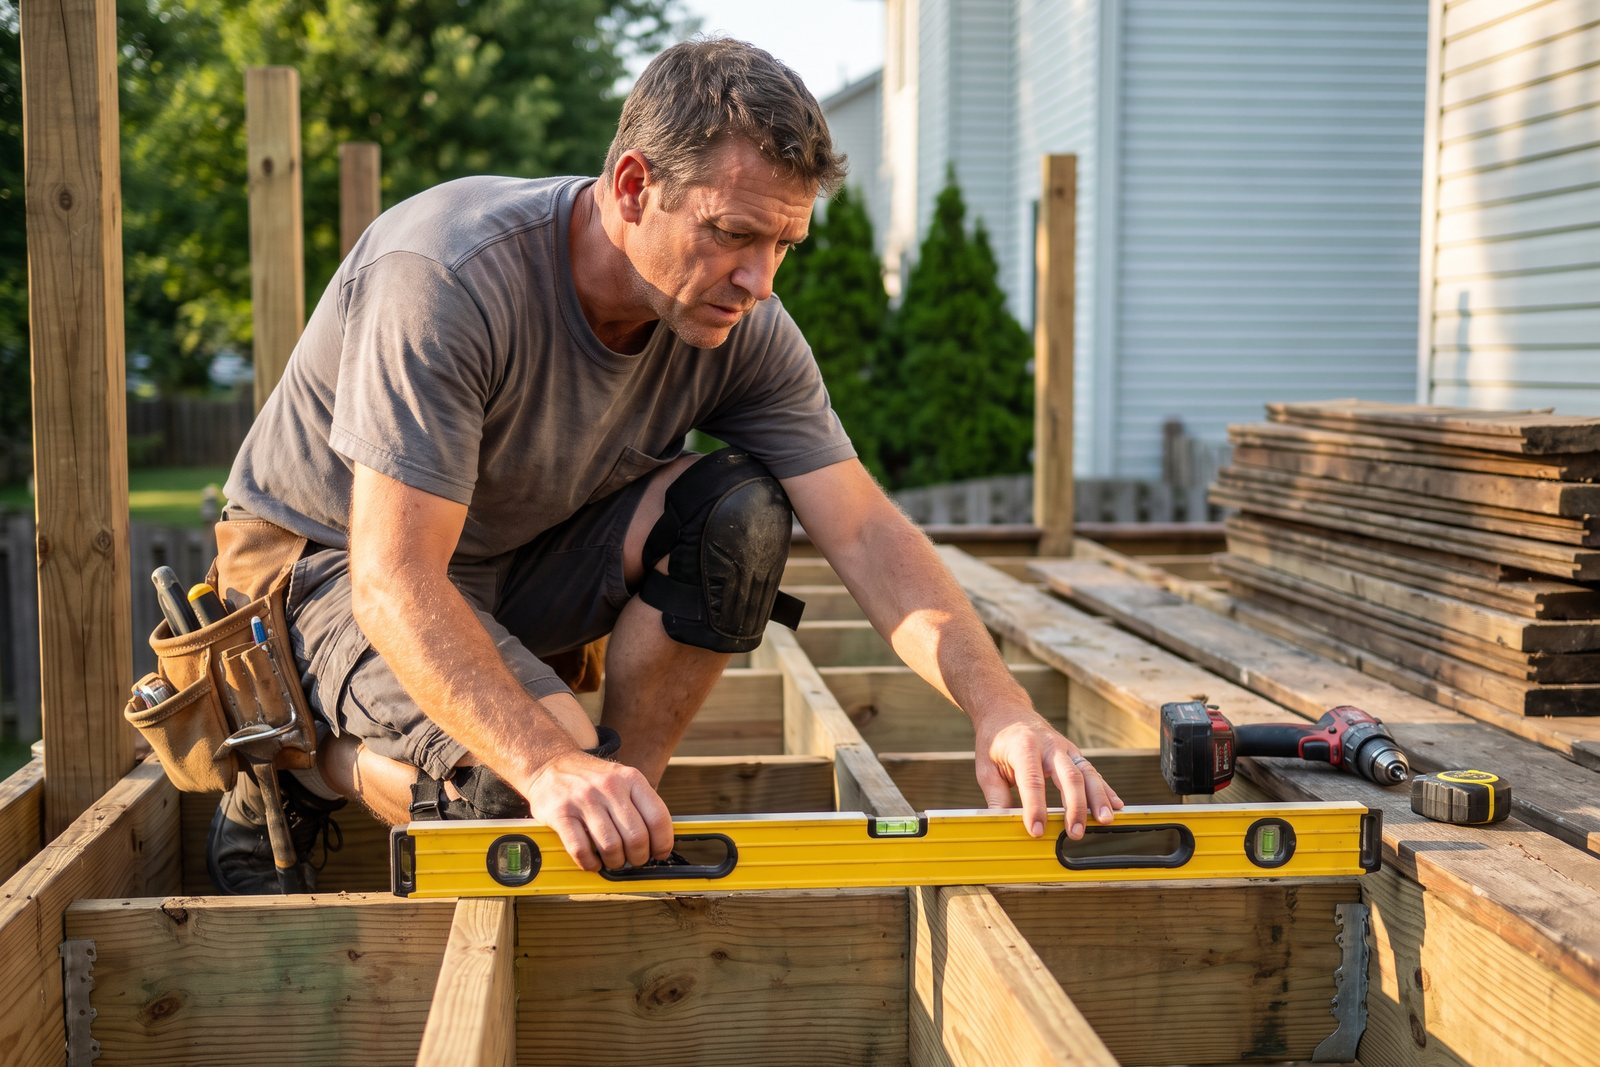
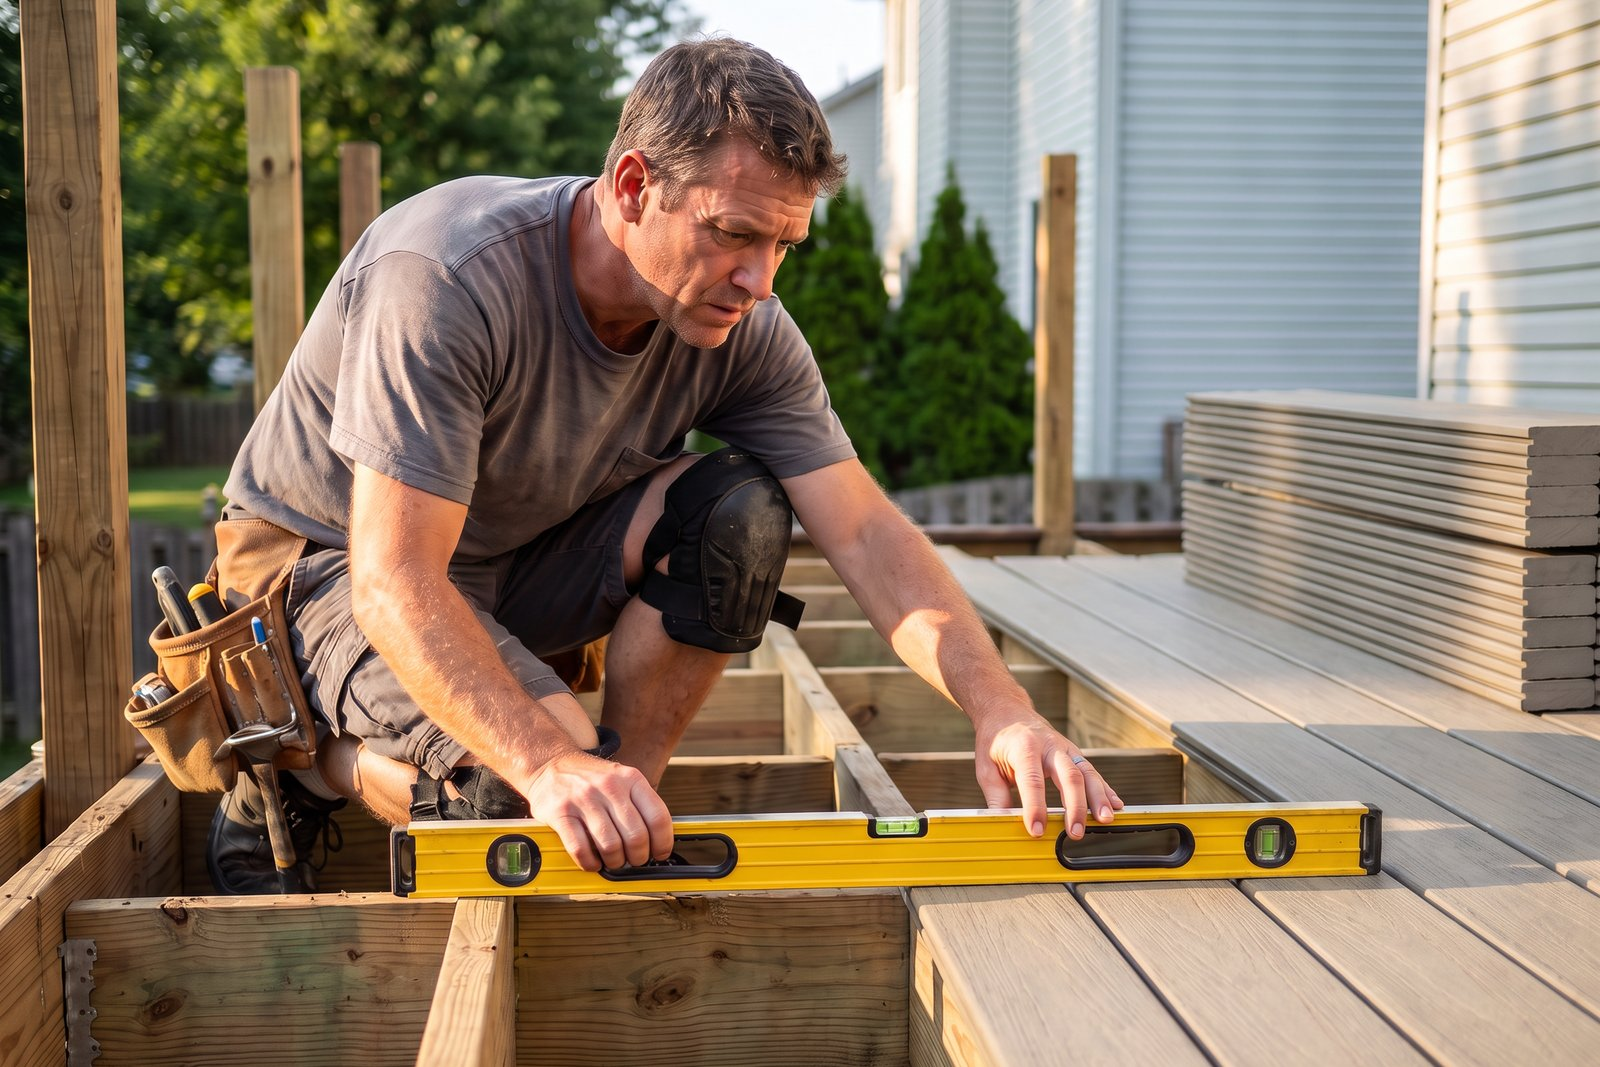
Hero: make the deck boards read as cellular PVC, not wood
The boards in the previous hero read as sawn lumber, which is wrong for a brand
image on a decking site.

- Board stack is now new factory-finished cellular PVC: uniform width and
  thickness, straight factory edges, square-cut ends, matte low-sheen surface,
  no knots or checking
- Added a run of the same boards already fastened across the joists, so the
  product actually appears in the hero instead of only framing and tools
- Color referenced from the real Driftwood swatch in assets/img/swatches-flat
  so it matches the product rather than a generic PVC guess
- Structural framing deliberately left as pressure-treated lumber. AmeriDex is
  decking, not framing, so PVC posts and joists would have been a product error
- Alt text and figcaption now say cellular PVC, which also picks up the
  cellular pvc decking query the site already ranks near page one for

diff --git a/blog/retrofit-deck-drainage-existing-deck.html b/blog/retrofit-deck-drainage-existing-deck.html
@@ -47,7 +47,7 @@
   <meta property="og:image" content="https://www.ameridex.com/assets/img/blog/existing-deck-contractor-og.jpg">
   <meta property="og:image:width" content="1200">
   <meta property="og:image:height" content="630">
-  <meta property="og:image:alt" content="Contractor checking the pitch of exposed deck joists with a level during a re-deck, with the old deck boards stacked nearby">
+  <meta property="og:image:alt" content="Contractor checking the pitch of existing deck joists with a level during a re-deck, with new AmeriDex cellular PVC deck boards stacked and partly installed alongside">
   <meta property="og:locale" content="en_US">
 
   <!-- Twitter Card -->
@@ -55,7 +55,7 @@
   <meta name="twitter:title" content="Can You Add a Dry-Space System to an Existing Deck?">
   <meta name="twitter:description" content="Why an above-joist seal cannot go over boards already down, and the one path that can work if your framing meets pitch and overhang spec.">
   <meta name="twitter:image" content="https://www.ameridex.com/assets/img/blog/existing-deck-contractor-og.jpg">
-  <meta name="twitter:image:alt" content="Contractor checking the pitch of exposed deck joists with a level during a re-deck, with the old deck boards stacked nearby">
+  <meta name="twitter:image:alt" content="Contractor checking the pitch of existing deck joists with a level during a re-deck, with new AmeriDex cellular PVC deck boards stacked and partly installed alongside">
 
   <!-- Favicons / app icons -->
   <link rel="icon" type="image/svg+xml" href="../assets/img/favicon.svg">
@@ -203,8 +203,8 @@
     <div class="blog-article container" style="max-width:780px;font-size:1.05rem;line-height:1.75;color:var(--navy);">
 
       <figure class="blog-lead-figure">
-        <img src="../assets/img/blog/existing-deck-contractor-hero.jpg" alt="Contractor checking the pitch of exposed deck joists with a level during a re-deck, with the old deck boards stacked nearby" width="1600" height="1067" loading="eager">
-        <figcaption>With the old boards off, the framing is what decides everything. Pitch and overhang get measured before a single new board goes down.</figcaption>
+        <img src="../assets/img/blog/existing-deck-contractor-hero.jpg" alt="Contractor checking the pitch of existing deck joists with a level during a re-deck, with new AmeriDex cellular PVC deck boards stacked and partly installed alongside" width="1600" height="1067" loading="eager">
+        <figcaption>With the old boards off, the existing framing is what decides everything. Pitch and overhang get measured before the first cellular PVC board goes down.</figcaption>
       </figure>
 
       <p>If you already own a deck and you want the space underneath to be dry and usable, the first thing worth knowing is that not every dry-space approach is available to you. Where a system sits determines whether it can be added later. Some can be. An above-joist seal cannot, and the reason is mechanical rather than commercial. This is the answer we give on the phone, so it may as well be written down.</p>

diff --git a/blog.html b/blog.html
@@ -182,7 +182,7 @@
       <div class="grid-3 reveal" style="gap:2rem;">
 
         <article class="card" style="display:flex;flex-direction:column;">
-          <a href="blog/retrofit-deck-drainage-existing-deck.html"><img class="blog-card-thumb" src="assets/img/blog/existing-deck-contractor-hero.jpg" alt="Contractor checking the pitch of exposed deck joists with a level during a re-deck, with the old deck boards stacked nearby" loading="lazy"></a>
+          <a href="blog/retrofit-deck-drainage-existing-deck.html"><img class="blog-card-thumb" src="assets/img/blog/existing-deck-contractor-hero.jpg" alt="Contractor checking the pitch of existing deck joists with a level during a re-deck, with new AmeriDex cellular PVC deck boards stacked and partly installed alongside" loading="lazy"></a>
           <p class="kicker" style="color:var(--red);font-family:var(--font-display);text-transform:uppercase;letter-spacing:0.12em;font-size:0.72rem;margin-bottom:0.5rem;">Existing Decks</p>
           <h3 style="color:var(--navy);margin-top:0;"><a href="blog/retrofit-deck-drainage-existing-deck.html" style="color:inherit;text-decoration:none;">Can You Add a Dry-Space System to an Existing Deck?</a></h3>
           <p style="flex:1;">An above-joist seal cannot go into a deck surface that is already fastened down. Why that is, and the one path that can work on a deck you already own if the framing meets pitch and overhang spec.</p>
